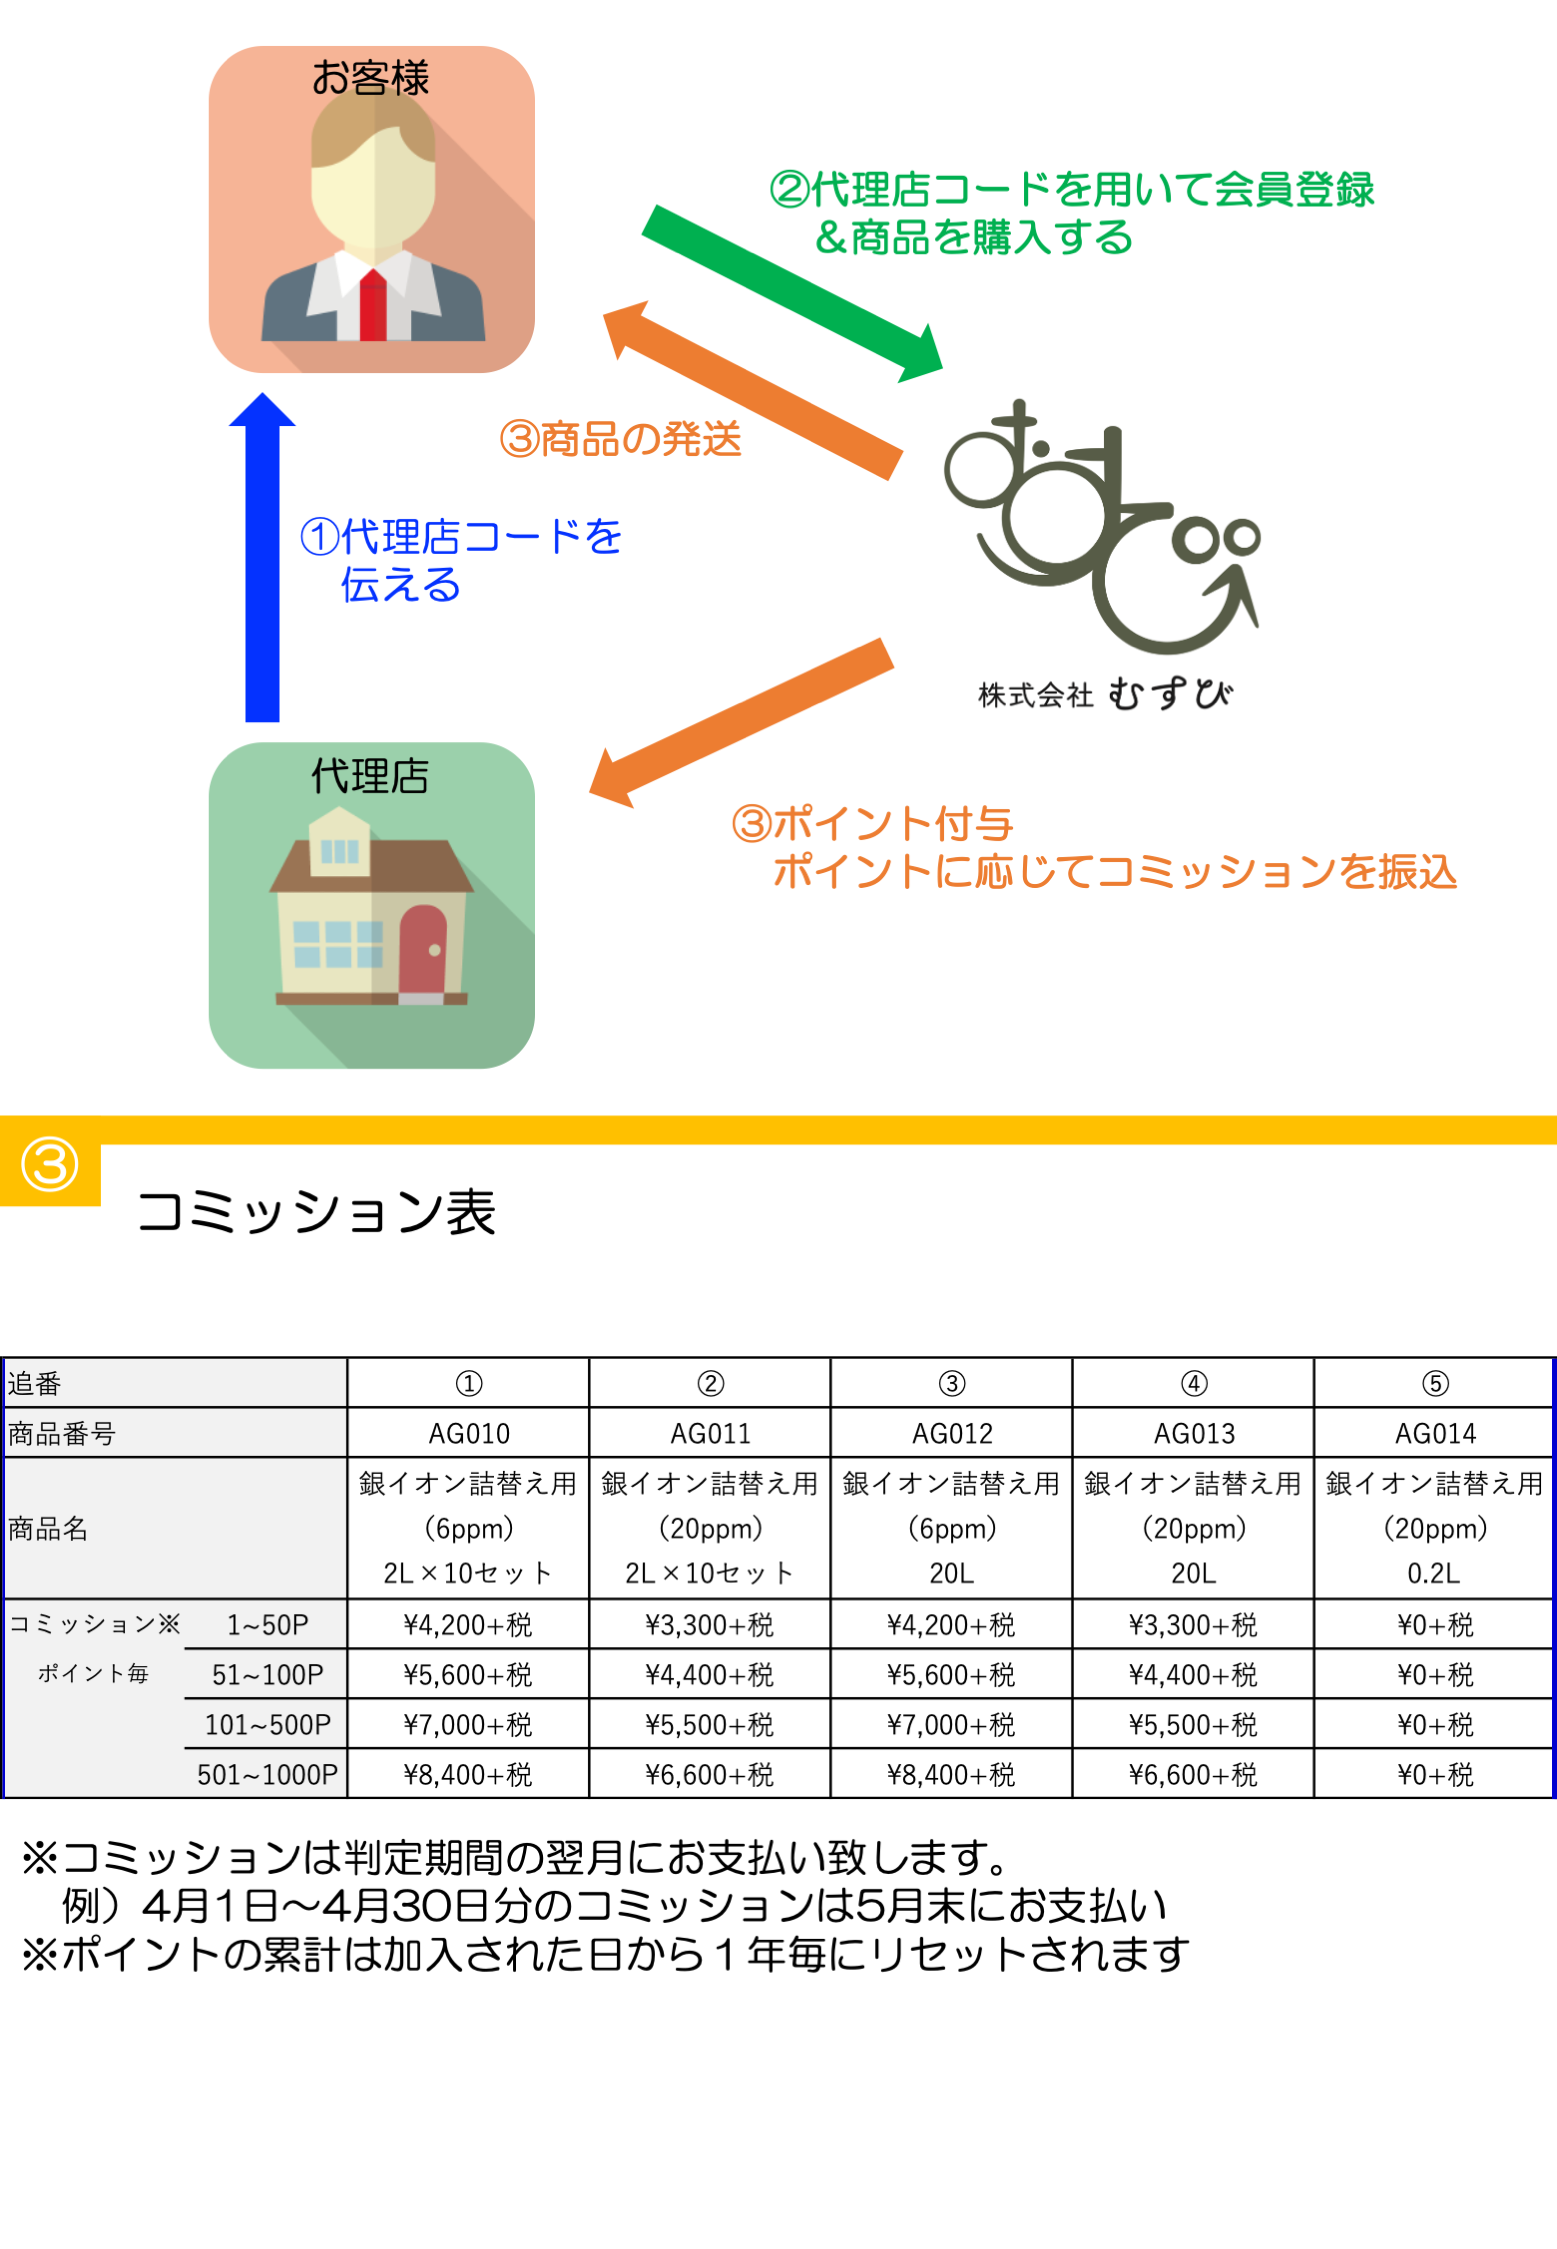
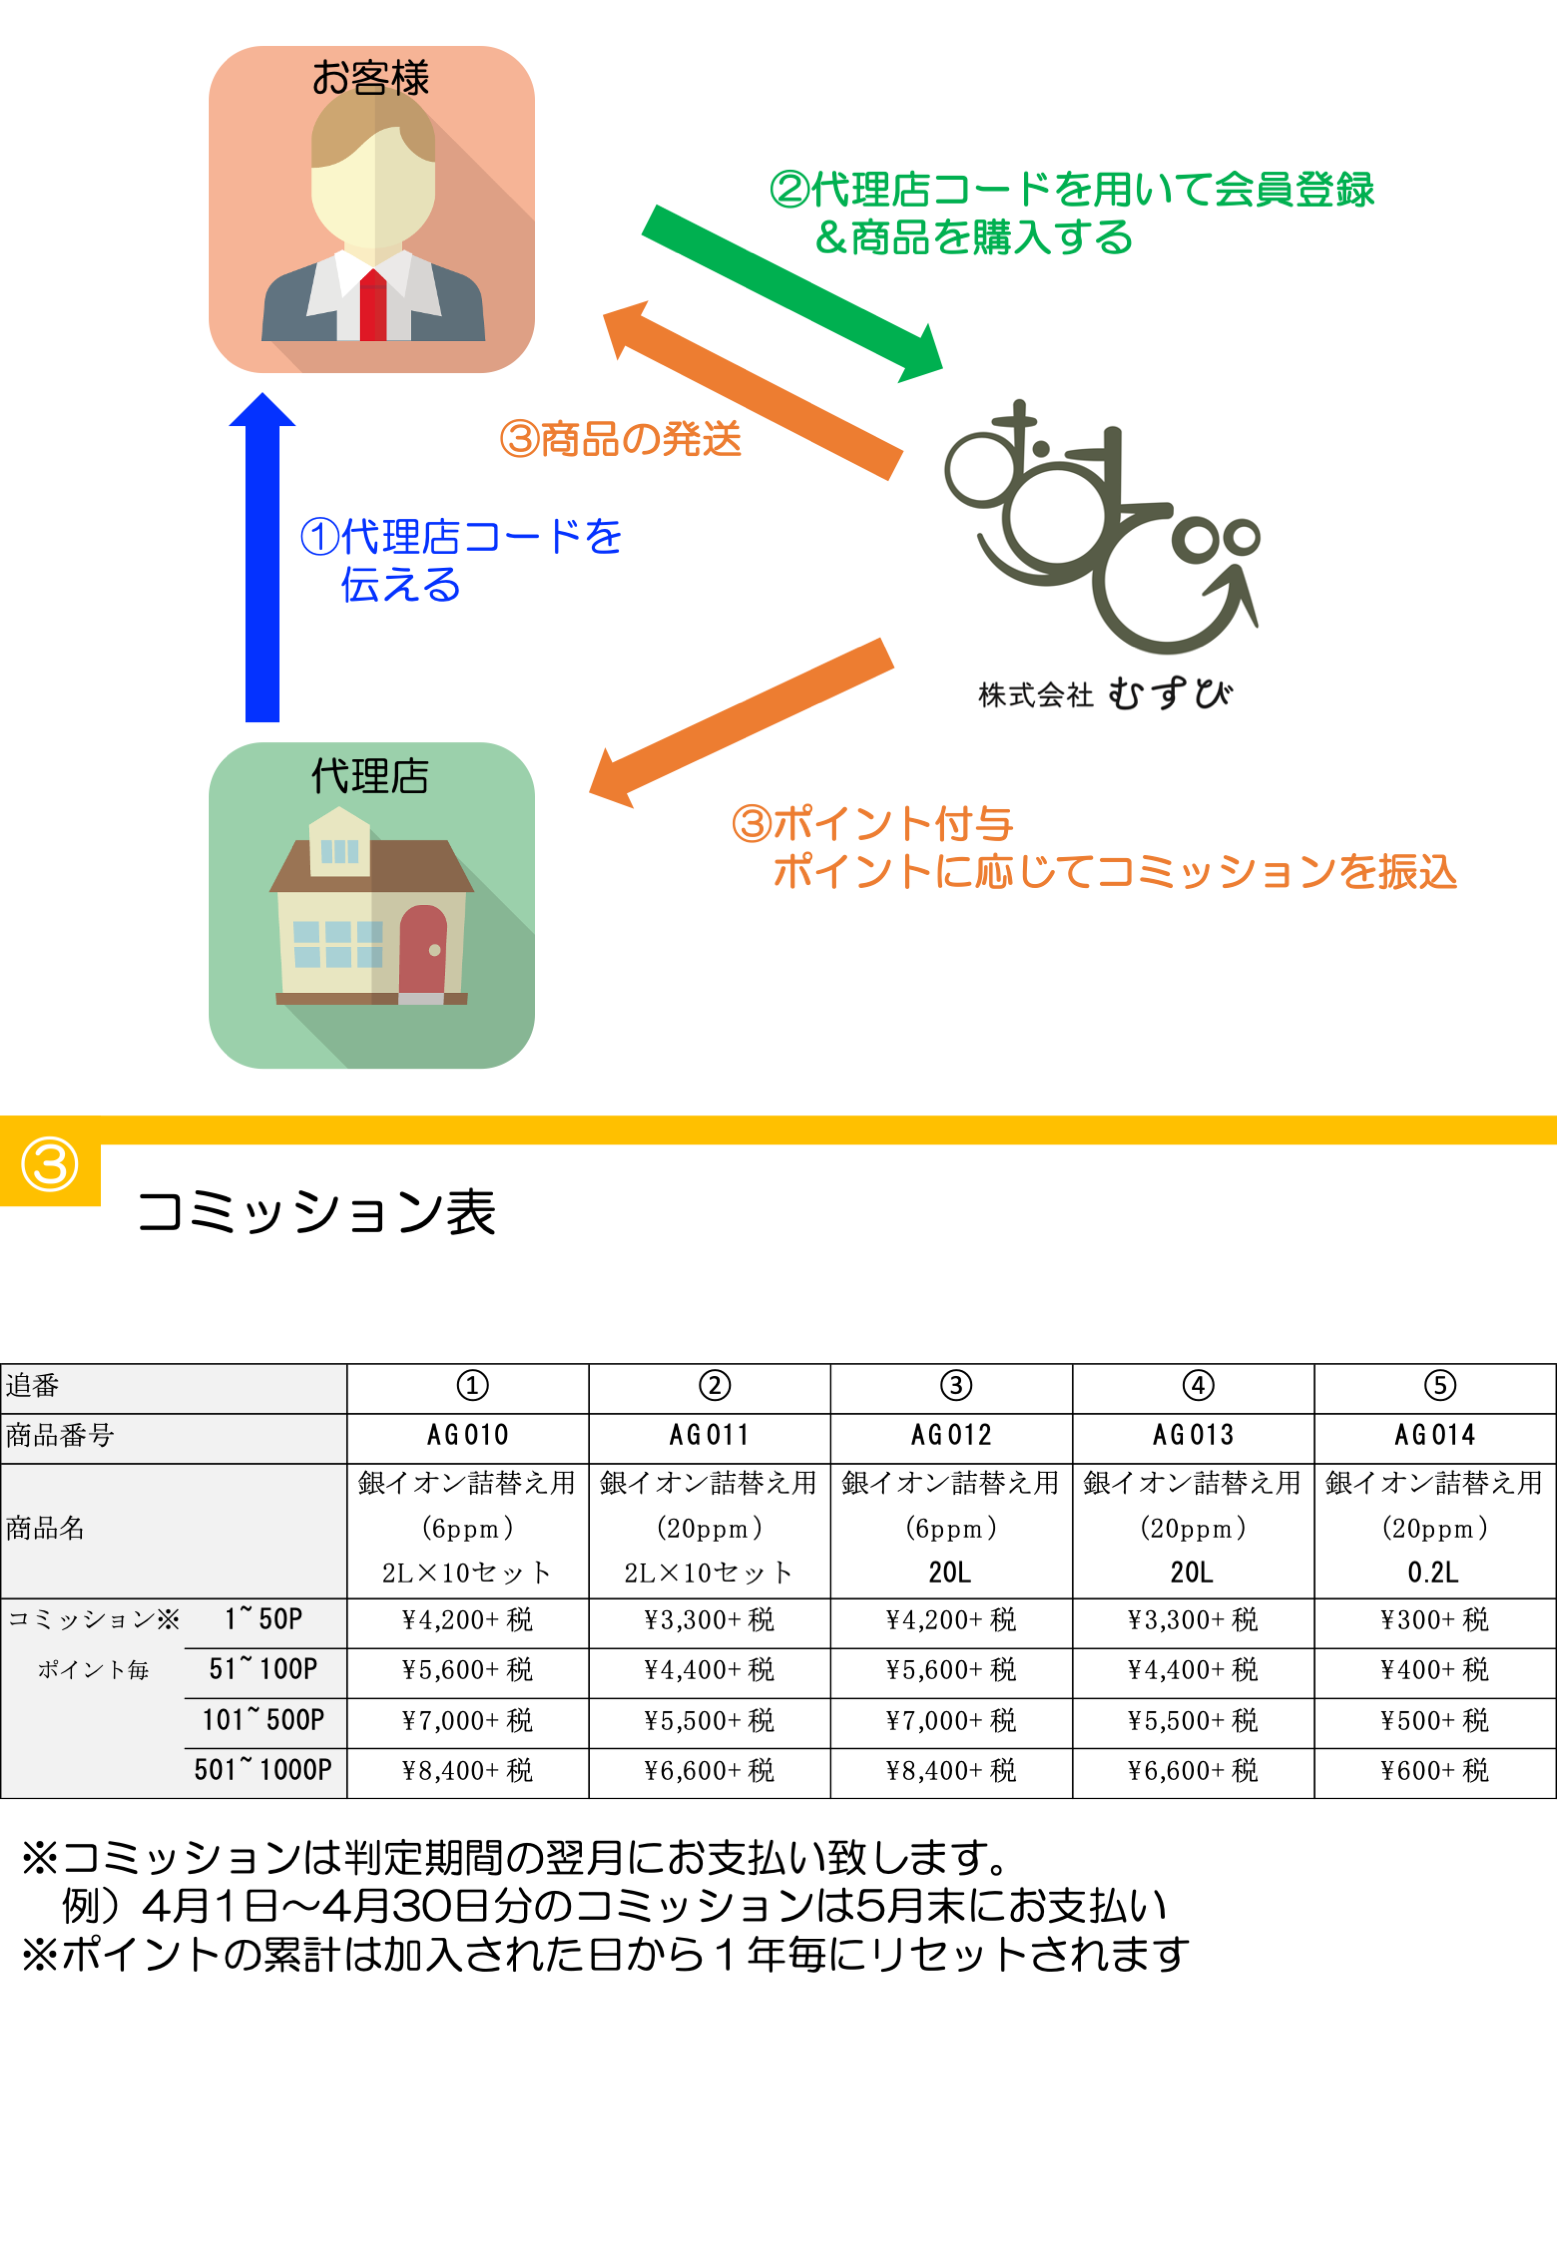
all

Changed region(s): [[0.0, 0.5914, 1.0, 0.8092]]

diff --git a/app/controllers/orders_controller.rb b/app/controllers/orders_controller.rb
@@ -56,7 +56,8 @@ class OrdersController < ApplicationController
       syodoku_point = 0
       # 各商品ごとのポイントを加算していく
       session[:cart].each do |cart|
-        if Product.find_by(id: cart["product_id"]).product_type == "消毒液"
+        # 消毒液に分類されている商品であり、かつスプレーでなければ加点
+        if Product.find_by(id: cart["product_id"]).product_type == "消毒液" && Product.find_by(id: cart["product_id"]).model_number != "AG014"
           quantity = cart["quantity"]
           syodoku_point += quantity
         end
